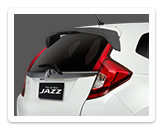
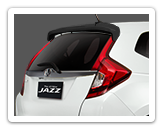
fix issues - amaze - fix issue spoiler - jazz

Changed region(s): [[0.0303, 0.0299, 0.9697, 0.9254], [0.3939, 0.3881, 0.4242, 0.4179]]

diff --git a/css/customizer.css b/css/customizer.css
@@ -119,7 +119,7 @@
 .preview-car-container {
 	position        : relative;
 	top             : 120px !important;
-	right           : 80px !important;
+	right           : 95px !important;
 	image-rendering : -o-crisp-edges;
 }
 
